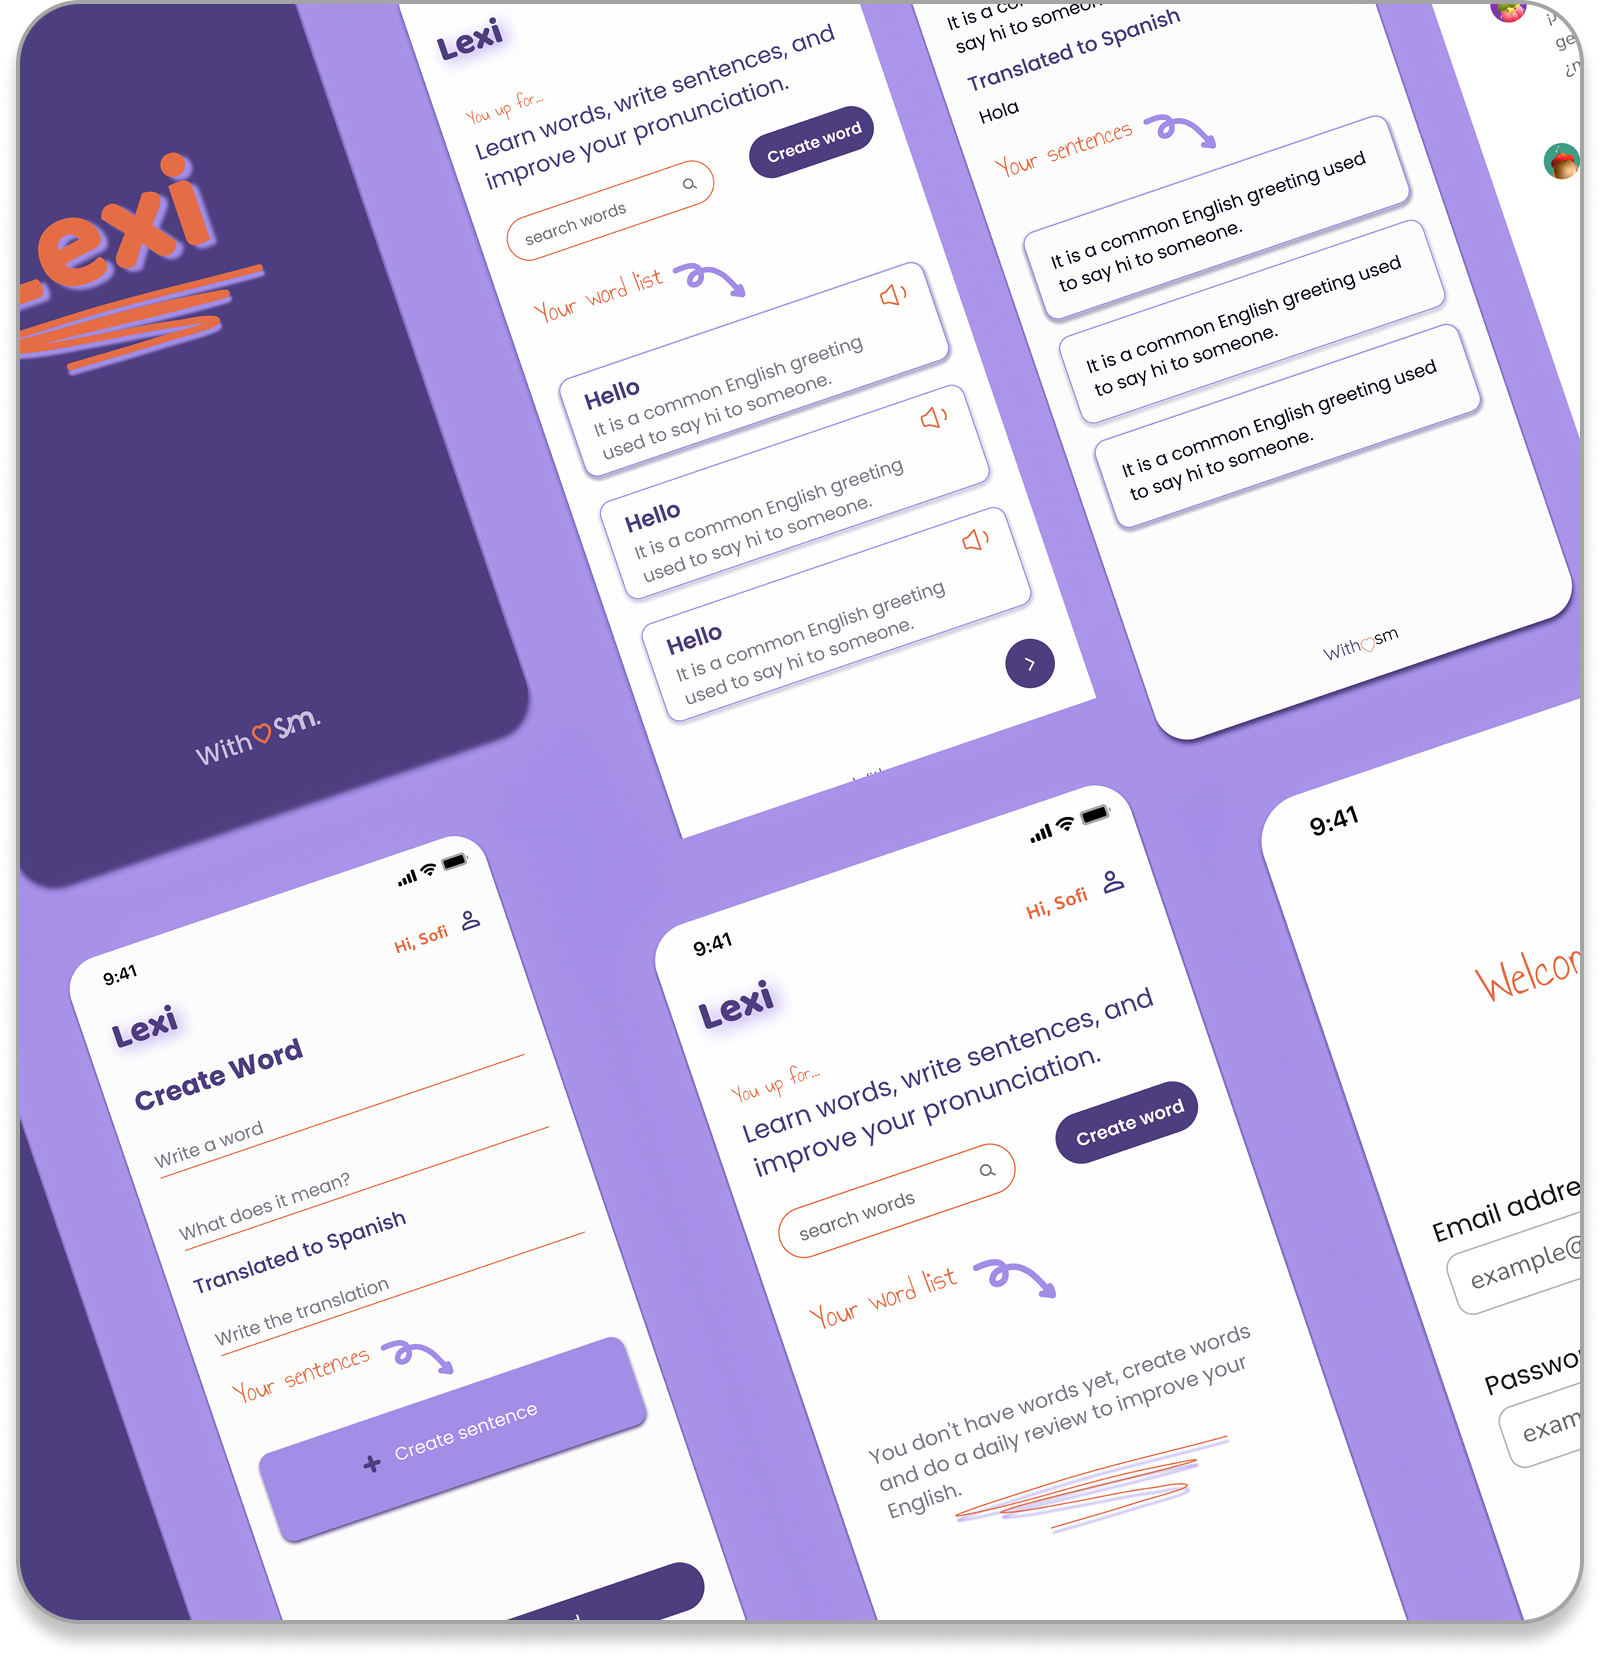
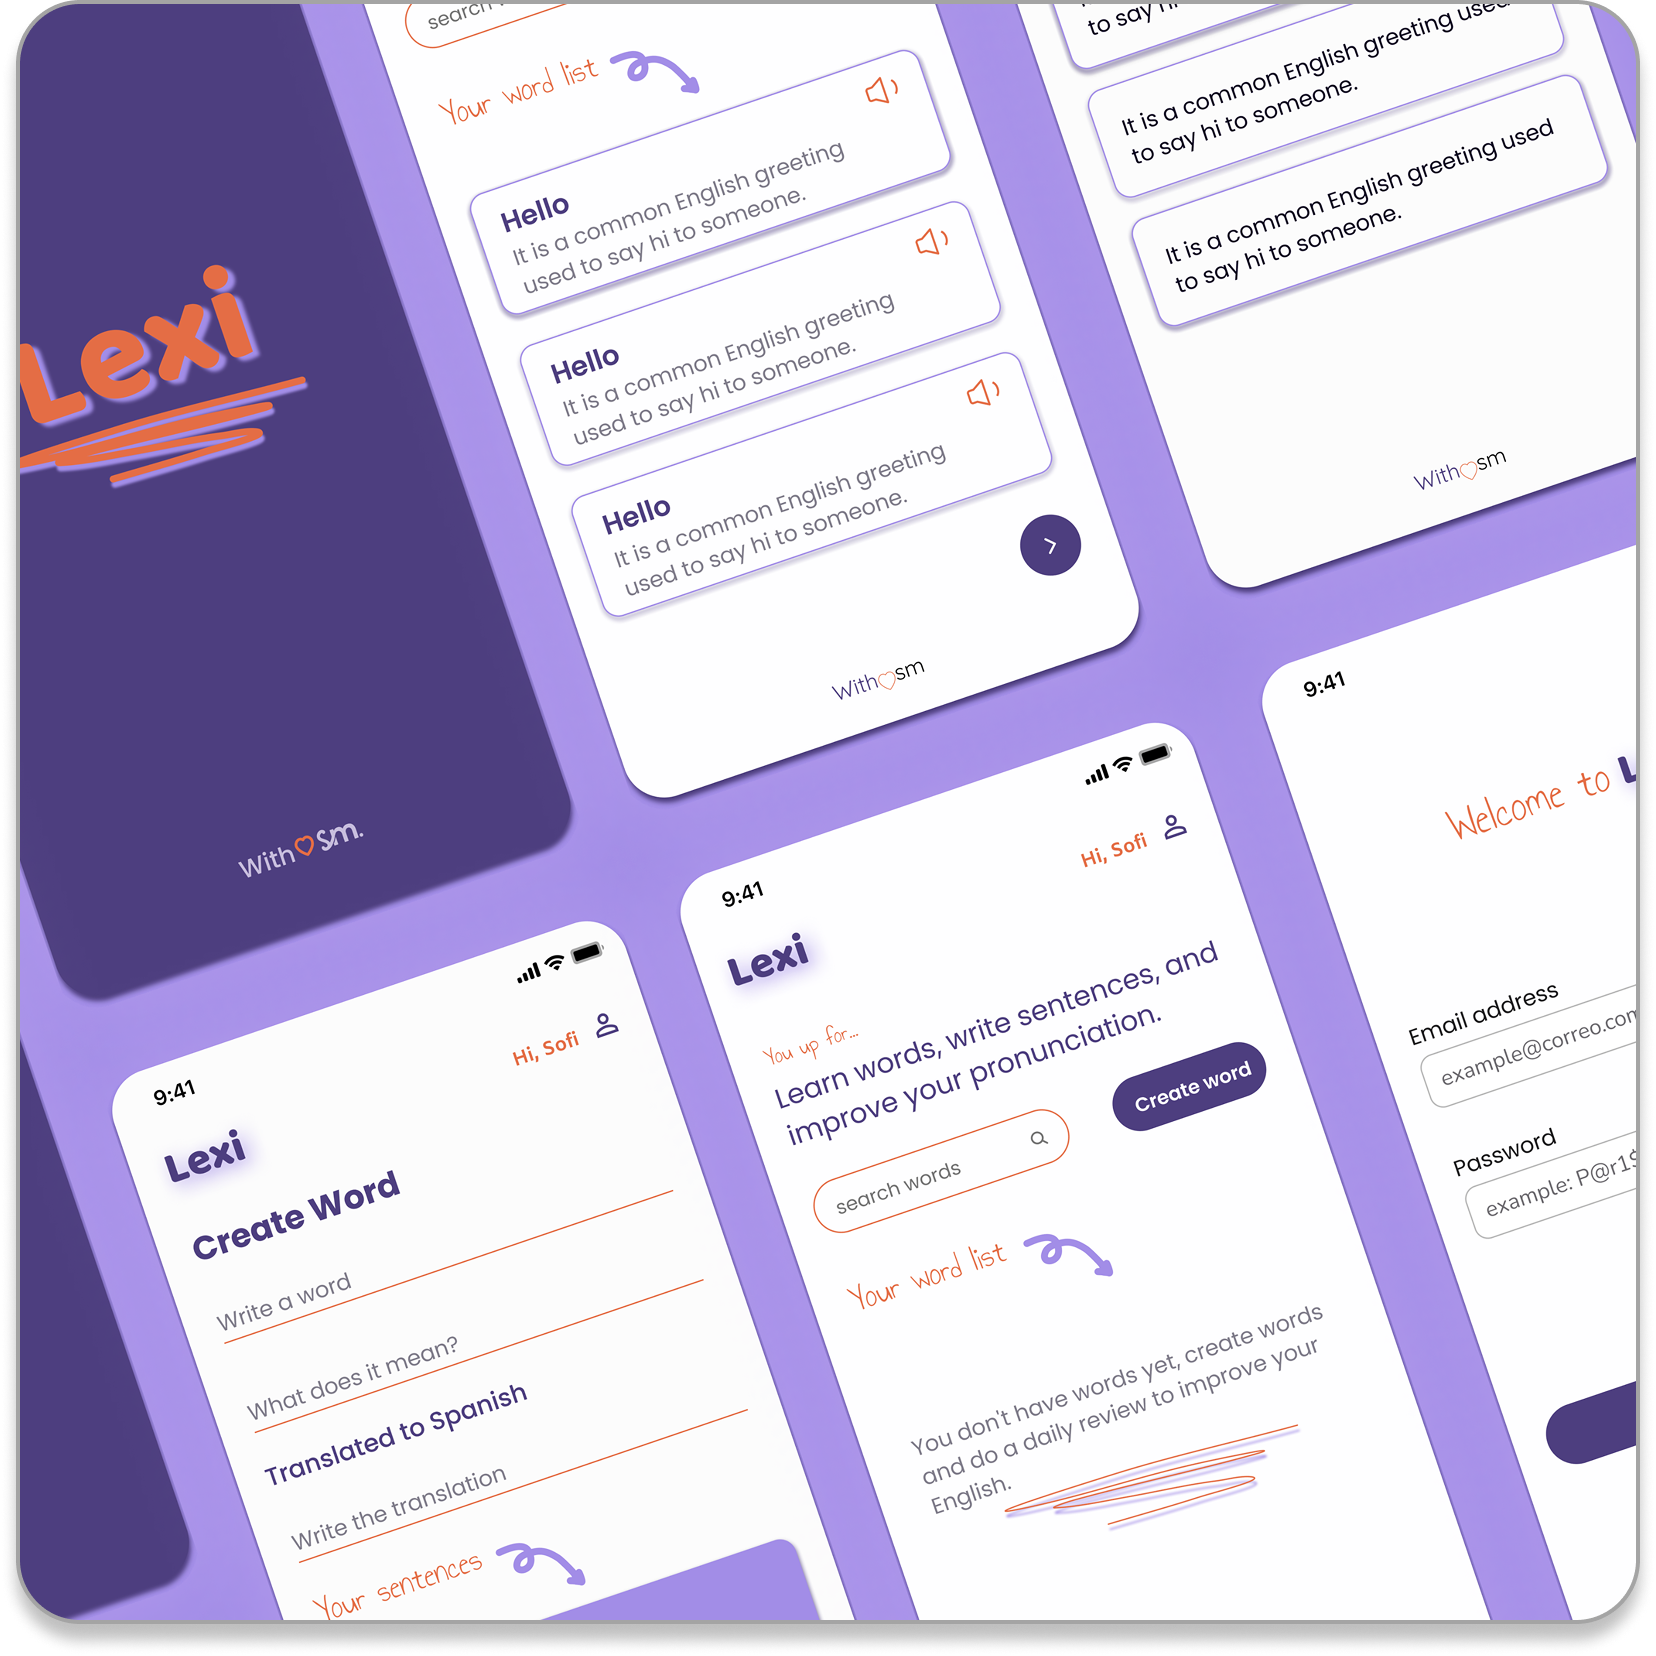
lexi Project Page

diff --git a/src/pages/LexiProjectPage.jsx b/src/pages/LexiProjectPage.jsx
@@ -1,0 +1,112 @@
+import React, { useEffect, useContext, useState, useRef } from "react";
+import { NavContext } from "../context/nav.context";
+import CenteredContainer from "../components/CenteredContainer";
+import lexiStartImage from "../assets/images/lexi-portada.png";
+import lexiLogo from "../assets/images/lexi-logo.png";
+import lexiScreens from "../assets/images/lexi-screens.png";
+
+export default function LexiProjectPage() {
+  const { setBackgroundColor } = useContext(NavContext);
+  const [isConverged, setIsConverged] = useState(false);
+  const containerRef = useRef(null);
+
+  useEffect(() => {
+    setBackgroundColor("bg-[#C8B8FB]");
+
+    const observer = new IntersectionObserver(
+      ([entry]) => {
+        // Trigger when element is 100% visible
+        if (entry.isIntersecting) {
+          setIsConverged(true);
+        } else {
+          setIsConverged(false);
+        }
+      },
+      {
+        root: null, // use viewport as root
+        threshold: 1, // trigger at 100% visibility
+        rootMargin: "0px",
+      }
+    );
+
+    if (containerRef.current) {
+      observer.observe(containerRef.current);
+    }
+
+    // Cleanup observer on component unmount
+    return () => {
+      if (containerRef.current) {
+        observer.unobserve(containerRef.current);
+      }
+    };
+  });
+  return (
+    <div className="flex flex-col">
+      <div className="bg-[#C8B8FB] min-h-[85vh]">
+        <CenteredContainer>
+          <div className="md:grid md:grid-cols-5 md:items-center md:gap-14">
+            <div className="md:col-span-3">
+              <h1 className="text-4xl font-bold text-[#4D3E7F] leading-snug pb-40">
+                Create Your Own Interactive <br />
+                Dictionary of Words and Phrases.
+              </h1>
+
+              <div className="flex items-start ">
+                <h2 className="text-2xl font-bold text-[#48376C] w-48">
+                  Timeline
+                </h2>
+                <p className="text-lg text-black pt-1">Two weeks</p>
+              </div>
+
+              <div className="flex items-start mt-8">
+                <h2 className="text-2xl font-bold text-[#48376C] w-48">
+                  Scope
+                </h2>
+                <p className="text-lg text-black pt-1">
+                  Front-End Developer ✧ Back-End Developer ✧ UI Design
+                </p>
+              </div>
+
+              <div className="flex items-start mt-8">
+                <h2 className="text-2xl font-bold text-[#48376C] w-48">
+                  Tools
+                </h2>
+                <p className="text-lg text-black pt-1">
+                  HTML5 ✧ React ✧ JavaScript ✧ Tailwind ✧ Figma ✧ GitHub
+                </p>
+              </div>
+
+              <div className="flex items-start mt-8">
+                <h2 className="text-2xl font-bold text-[#48376C] w-48">
+                  Device
+                </h2>
+                <p className="text-lg text-black pt-1">Mobile</p>
+              </div>
+            </div>
+            <div className="md:col-span-2">
+              <img
+                src={lexiStartImage}
+                className="max-h-[700px]"
+                alt="Lexi Onboarding Screen"
+              />
+            </div>
+          </div>
+        </CenteredContainer>
+      </div>
+      <div className="bg-[#ECE9F6]">
+        <CenteredContainer>
+          <img
+            src={lexiLogo}
+            className="md:h-[155px] md:-mt-16"
+            alt="Lexi Logo"
+          />
+          <img
+            src={lexiScreens}
+            className="md:h-[700px] md:mt-10 md:mb-20"
+            alt="Lexi Screens"
+          />
+        </CenteredContainer>
+      </div>
+    </div>
+  );
+}

diff --git a/src/components/RecentProjects.jsx b/src/components/RecentProjects.jsx
@@ -11,8 +11,7 @@ export default function RecentProjects() {
         "Optimize your language learning in an intuitive and personalized way",
       description:
         "Lexi is an innovative language learning app that offers personalized, intuitive tools and an interactive dictionary experience, designed to optimize your learning process and adapt to your  needs",
-      link: "#",
-      wip: true,
+      link: "/projects/lexi",
     },
     {
       image: coverMuqui,
@@ -22,14 +21,6 @@ export default function RecentProjects() {
         "Muqui is a dynamic and collaborative project management platform that leverages virtual pets and worlds to create a fun and friendly experience. The solution aims to foster collective responsibility and reduce collaboration-related stress.",
       link: "/projects/muqui",
     },
-    /* {
-      image: coverAo,
-      title: "AO product management portal",
-      description:
-        "Inventory management for the Paraguayan store AO. Admin users can manage products. Users can search for products and favorite them.",
-      link: "#",
-      wip: true,
-    },*/
   ];
   return (
     <div id="projects" className="bg-[#F4F2F7]">

diff --git a/src/App.jsx b/src/App.jsx
@@ -8,6 +8,7 @@ import HomePage from "./pages/HomePage";
 import NavBar from "./components/NavBar";
 import Footer from "./components/Footer";
 import MuquiProjectPage from "./pages/MuquiProjectPage";
+import LexiProjectPage from "./pages/LexiProjectPage";
 import ScrollToTop from "./components/ScrollToTop";
 
 export default function App() {
@@ -20,6 +21,7 @@ export default function App() {
         <Route path="/about" element={<AboutPage />} />
         <Route path="/contact" element={<ContactPage />} />
         <Route path="/projects/muqui" element={<MuquiProjectPage />} />
+        <Route path="/projects/lexi" element={<LexiProjectPage />} />
       </Routes>
       <Footer />
     </>
